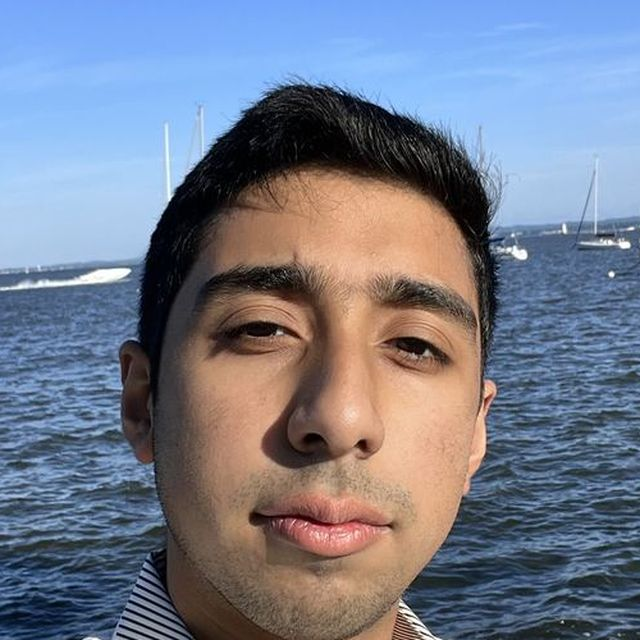
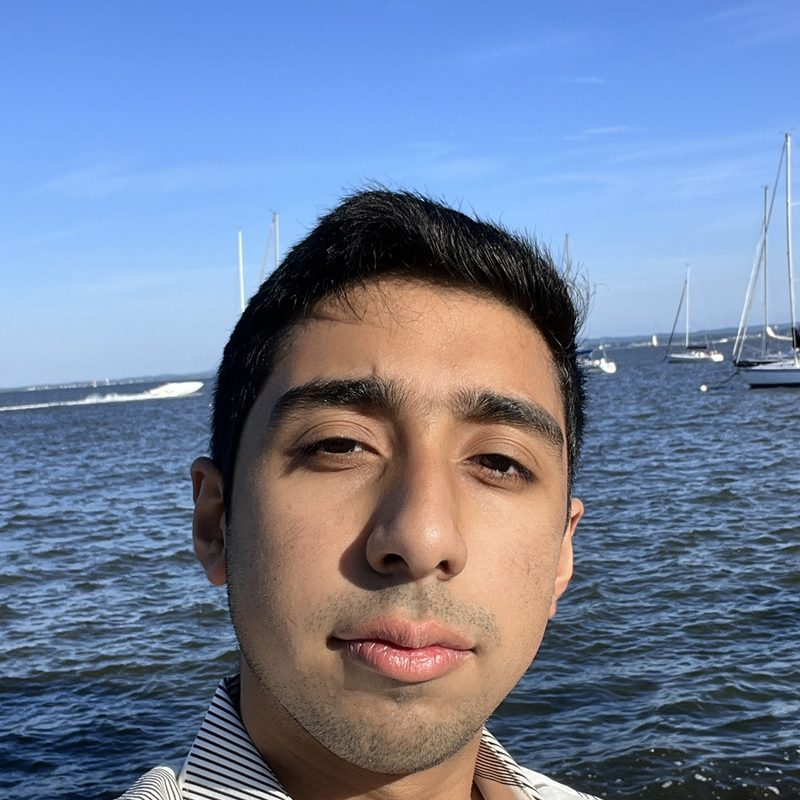
Re-crop headshot from original: wider square with collar and shoulders

diff --git a/index.html b/index.html
@@ -48,7 +48,7 @@
           </ul>
         </div>
         <div class="hero-card">
-          <img class="headshot" src="assets/headshot.jpg" alt="Headshot photo of Joseph Michael Shaker" width="640" height="640" loading="eager" />
+          <img class="headshot" src="assets/headshot.jpg" alt="Headshot photo of Joseph Michael Shaker" width="800" height="800" loading="eager" />
           <p class="hero-card-name">Joseph M. Shaker</p>
           <p class="hero-card-role">Software + Data Engineering</p>
           <div class="hero-card-tags">
